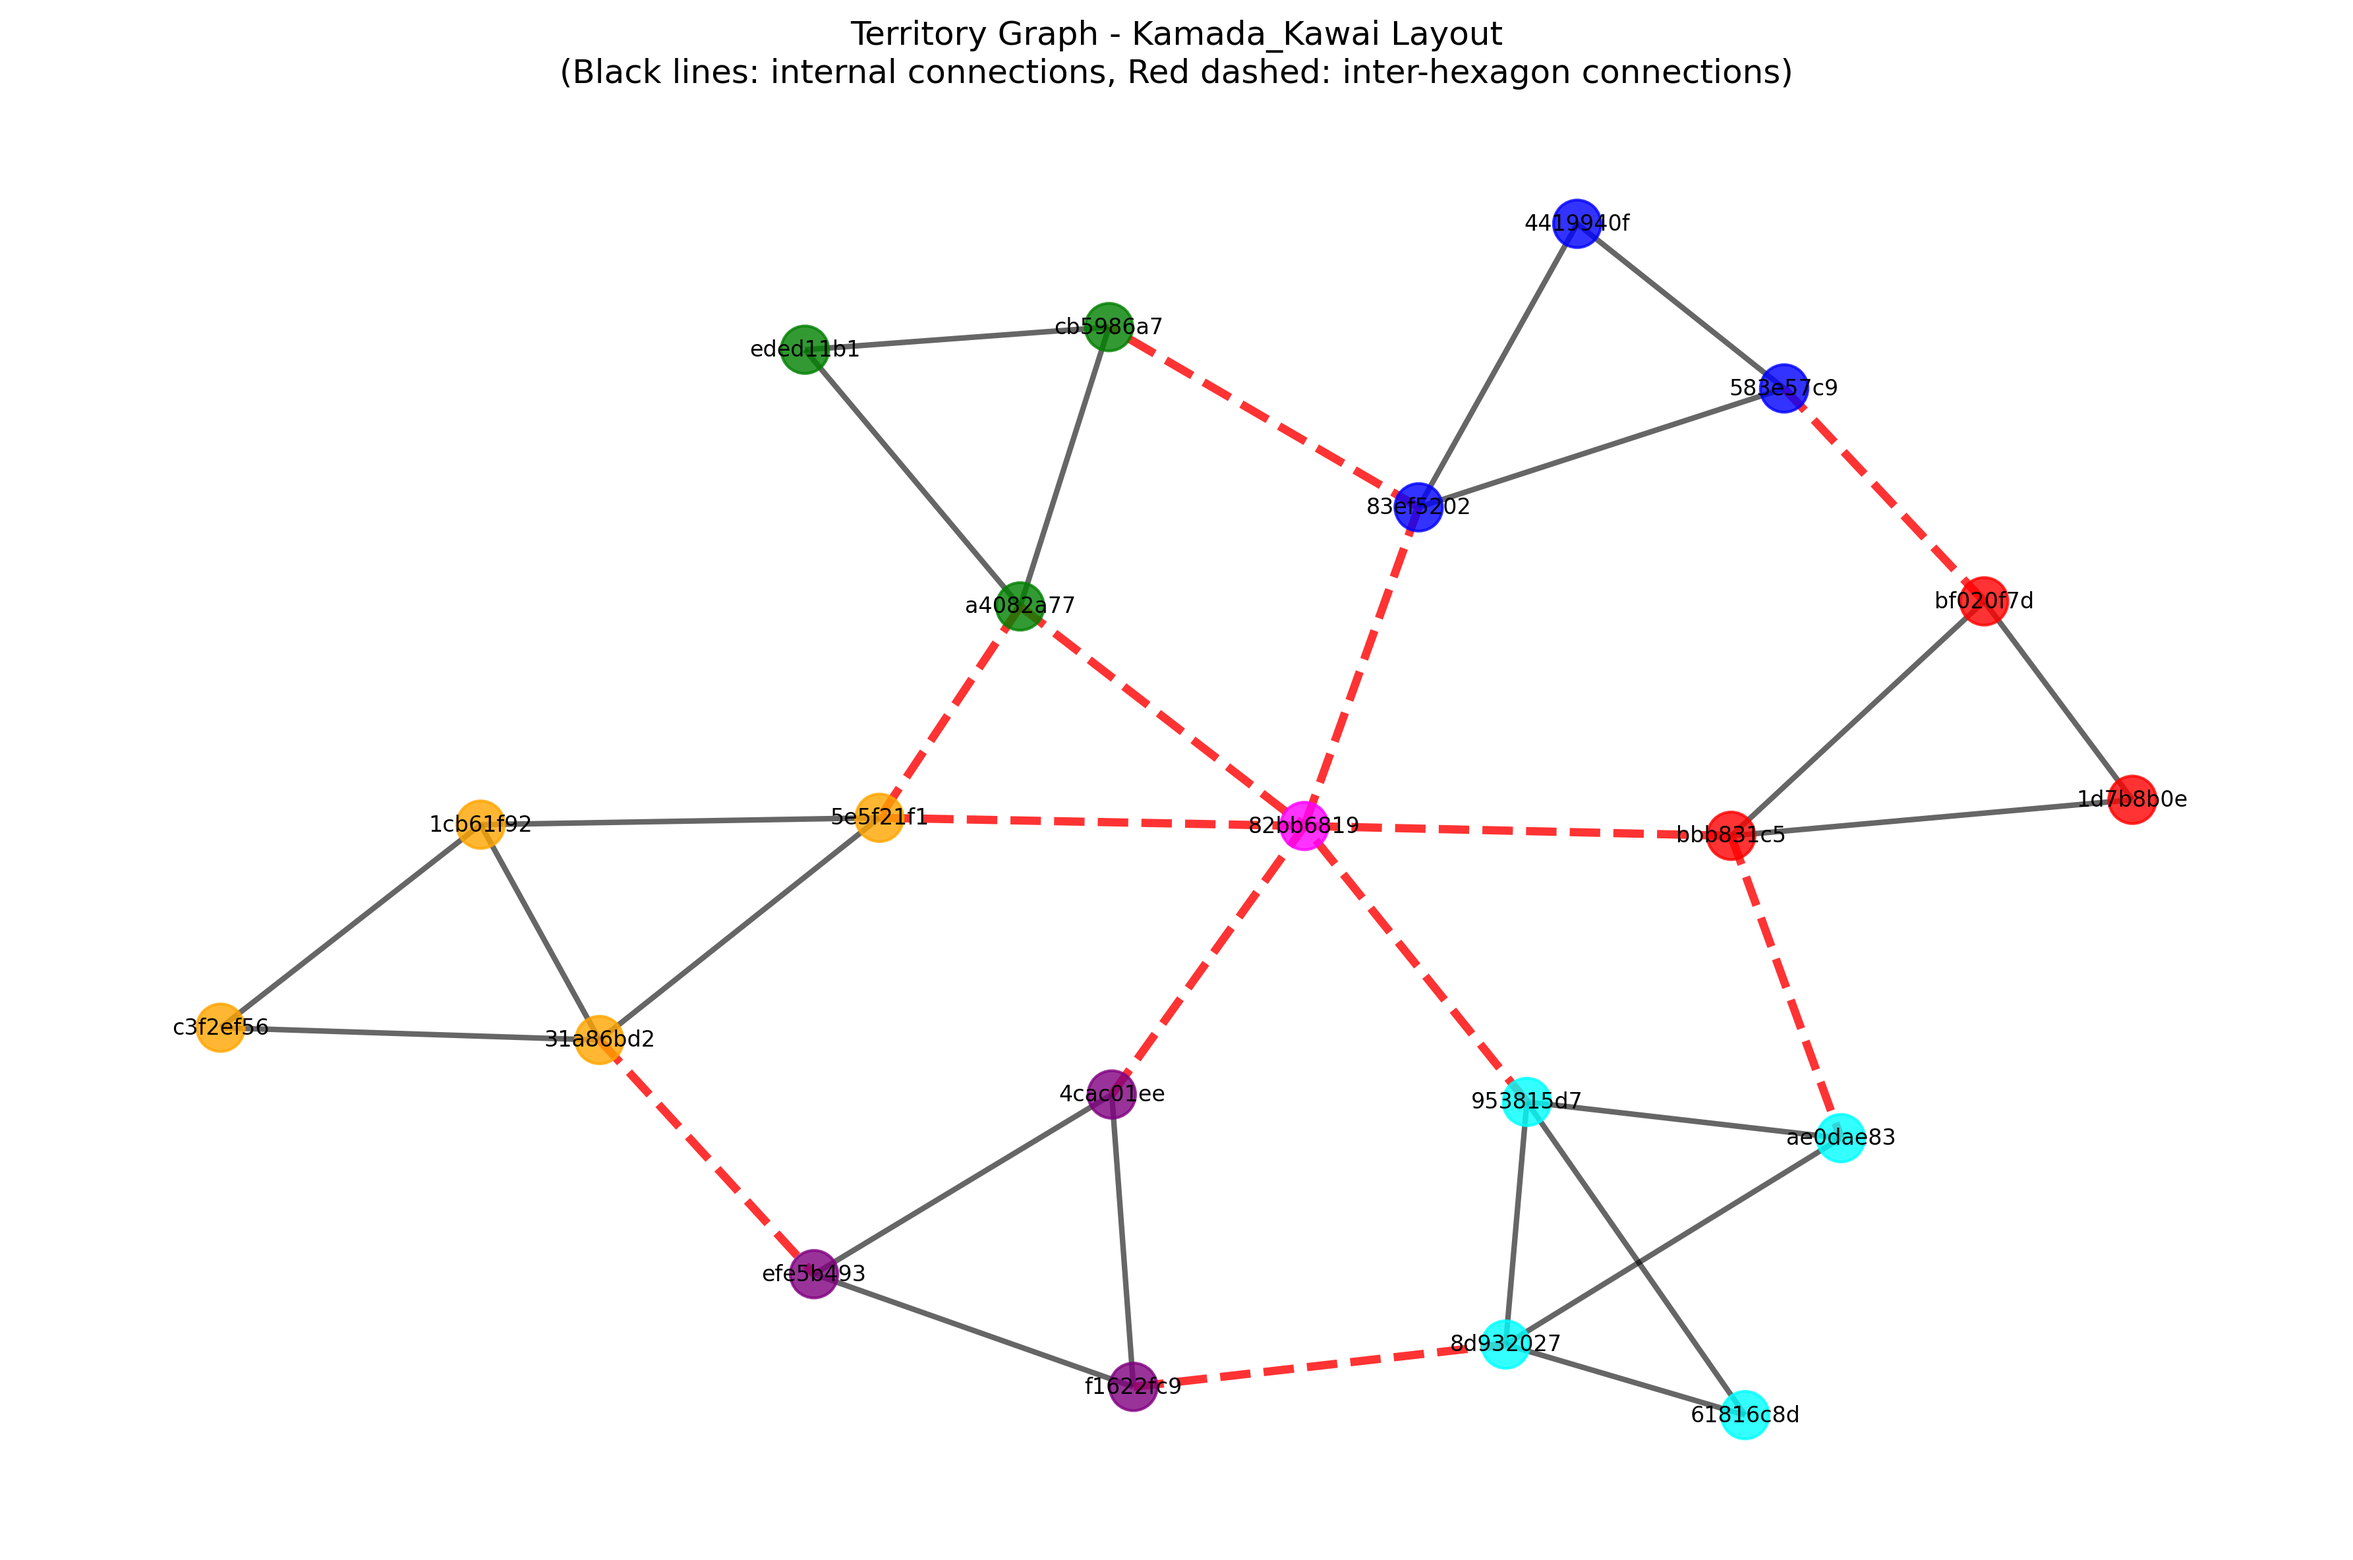
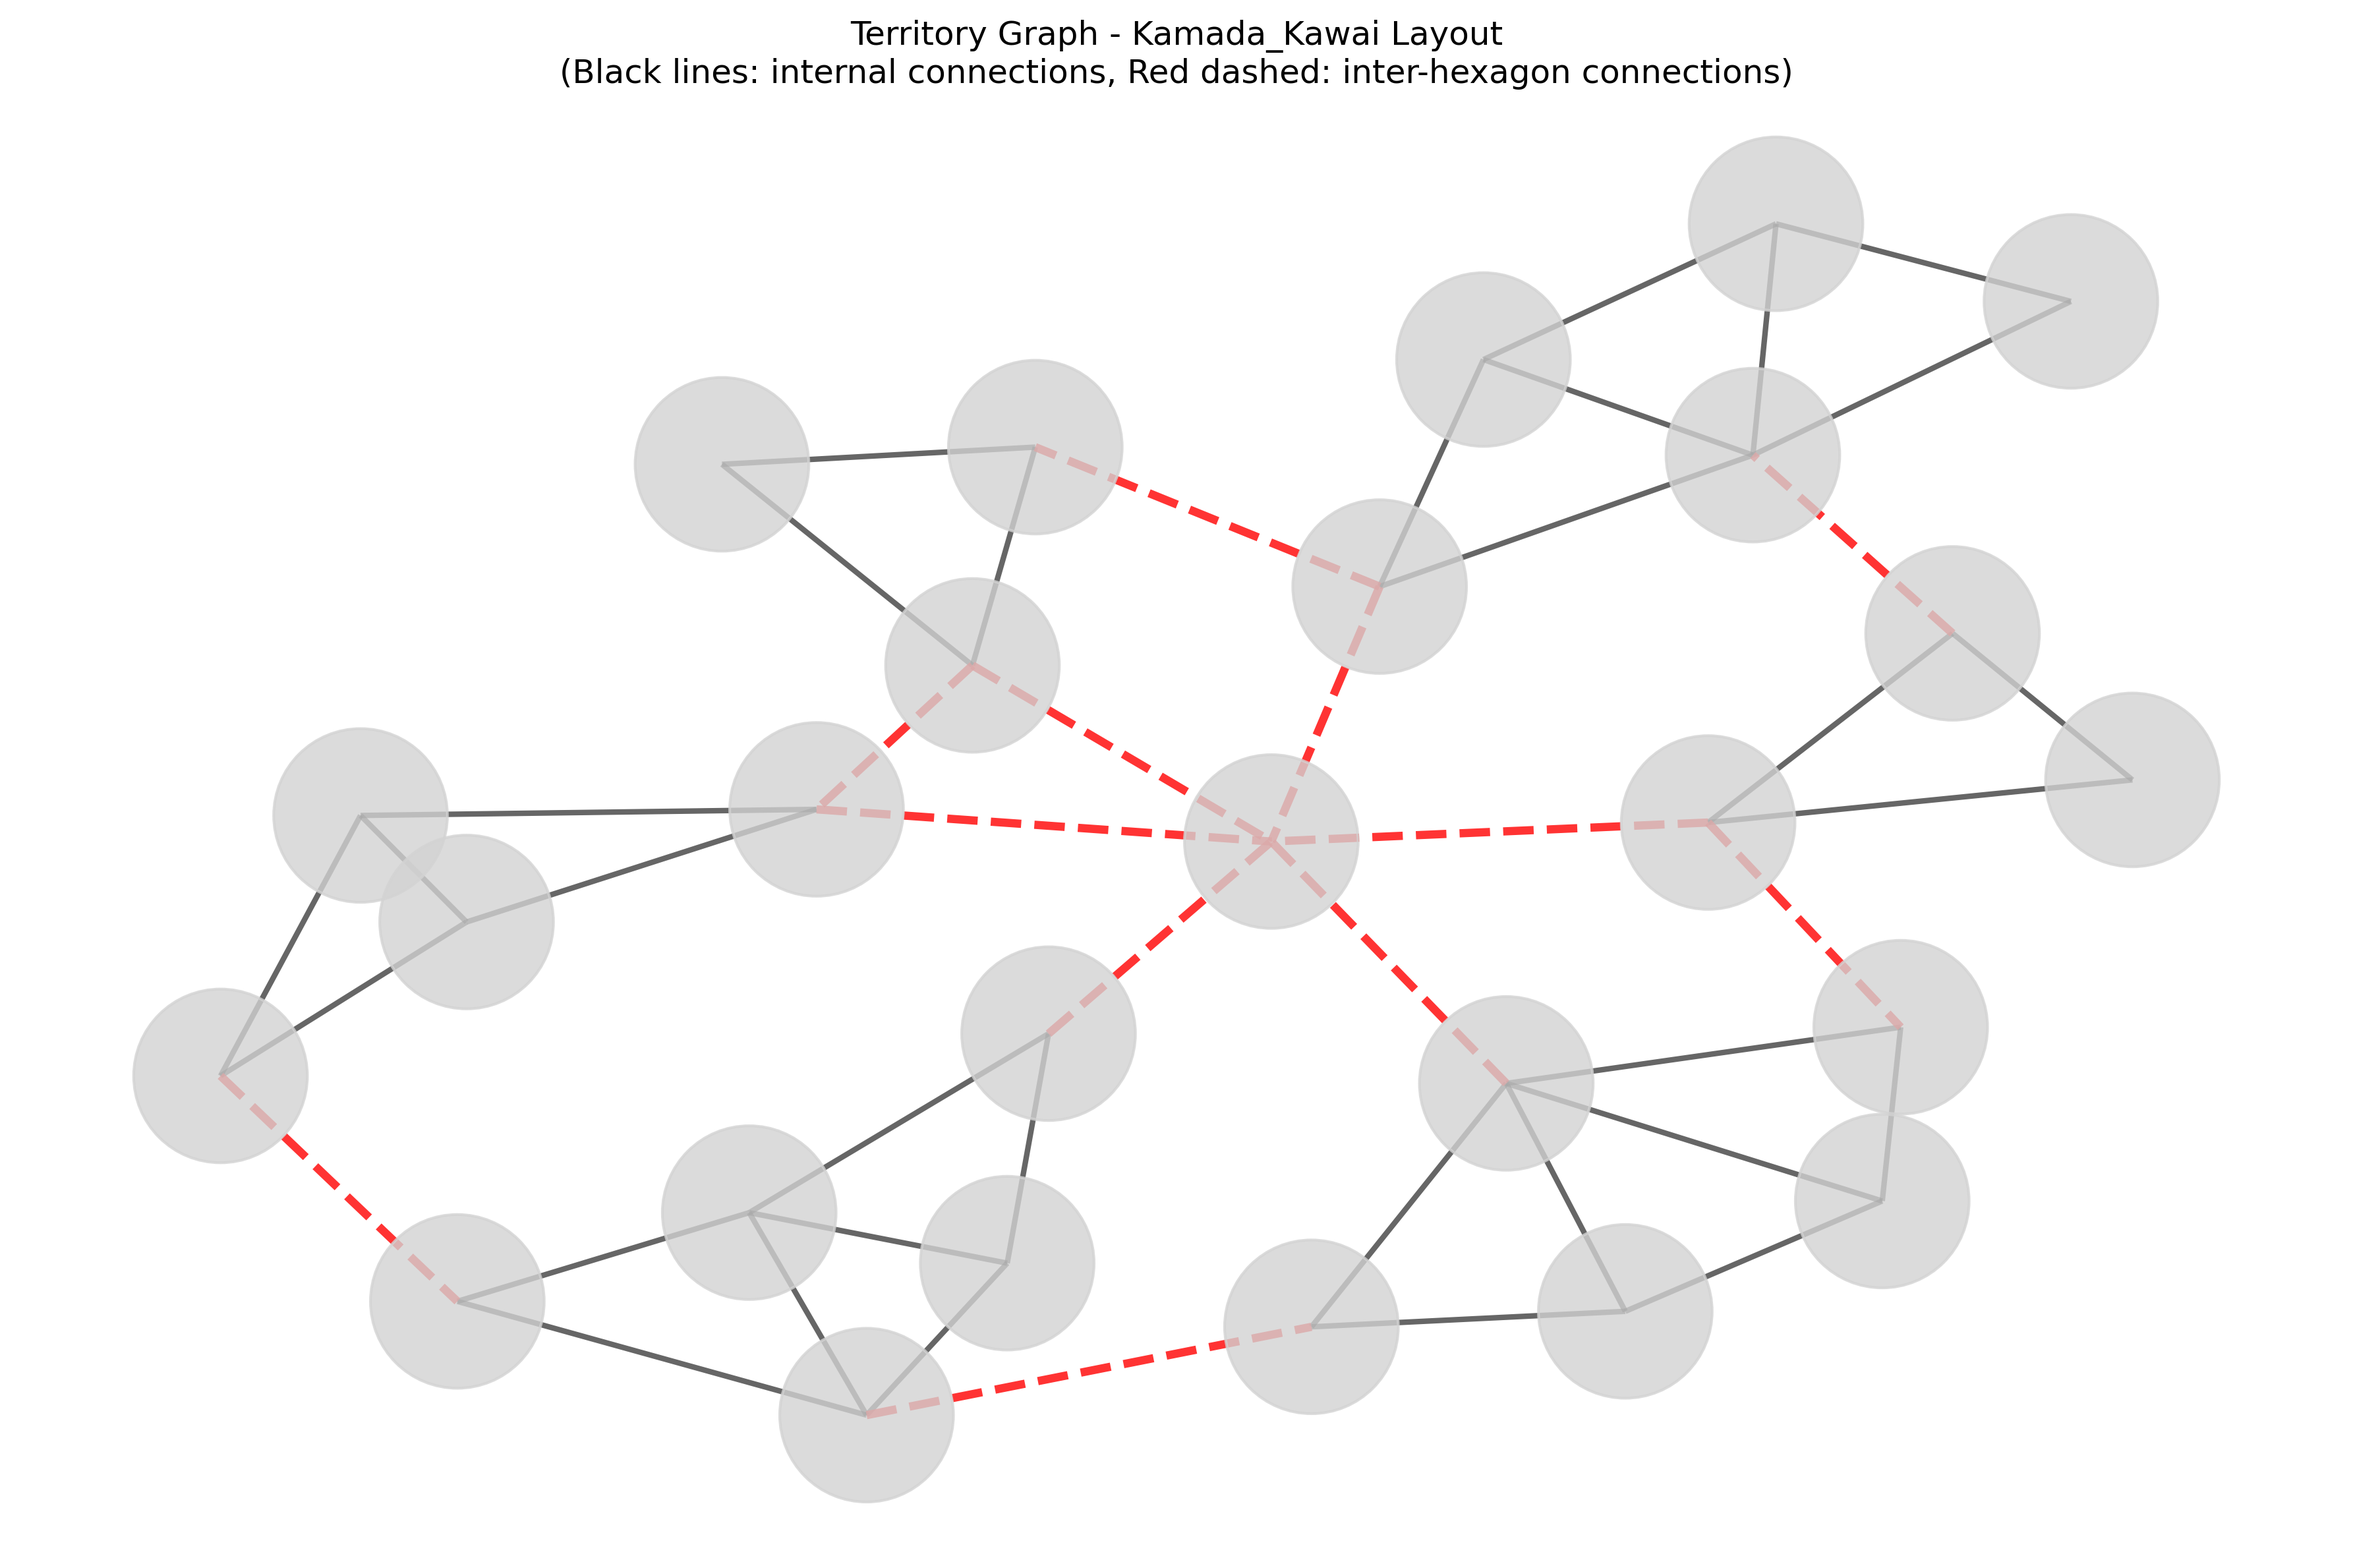
latest, with argparse

diff --git a/hex.py b/hex.py
@@ -5,6 +5,7 @@ from uuid import UUID, uuid4
 import random
 import networkx as nx
 import matplotlib.pyplot as plt
+import argparse
 
 class HexSide(IntEnum):
     """Enumeration for hexagon sides, numbered 0-5"""
@@ -97,7 +98,7 @@ class HexagonGrid(BaseModel):
                 return hex
         return None
     
-    def extract_territory_graph(self, save_image: bool = True) -> nx.Graph:
+    def extract_territory_graph(self, save_image: bool = True, use_colors: bool = False, show_ids: bool = False) -> nx.Graph:
         """
         Extract the full territory graph from the hexagon grid using Kamada-Kawai layout.
         """
@@ -139,11 +140,11 @@ class HexagonGrid(BaseModel):
         
         # Step 4: Visualize with kamada-kawai layout
         if save_image:
-            self._visualize_territory_graph(graph)
+            self._visualize_territory_graph(graph, use_colors, show_ids)
         
         return graph
     
-    def _visualize_territory_graph(self, graph: nx.Graph):
+    def _visualize_territory_graph(self, graph: nx.Graph, use_colors: bool = False, show_ids: bool = False):
         """Create a visual representation using kamada-kawai layout for even distribution"""
         plt.figure(figsize=(12, 8))
         
@@ -156,30 +157,34 @@ class HexagonGrid(BaseModel):
             pos = nx.spring_layout(graph, k=2, iterations=100)
             layout_used = "spring"
         
-        # Draw nodes with different colors for different hexagons
-        hexagon_colors = {}
-        color_map = ['red', 'blue', 'green', 'orange', 'purple', 'cyan', 'magenta', 'yellow']
-        
-        for i, hexagon in enumerate(self.hexagons):
-            hexagon_colors[str(hexagon.hex_id)] = color_map[i % len(color_map)]
-        
-        node_colors = []
-        for node in graph.nodes():
-            hex_id = graph.nodes[node]['hexagon_id']
-            node_colors.append(hexagon_colors[hex_id])
+        # Draw nodes with different colors for different hexagons or light grey
+        if use_colors:
+            hexagon_colors = {}
+            color_map = ['red', 'blue', 'green', 'orange', 'purple', 'cyan', 'magenta', 'yellow']
+            
+            for i, hexagon in enumerate(self.hexagons):
+                hexagon_colors[str(hexagon.hex_id)] = color_map[i % len(color_map)]
+            
+            node_colors = []
+            for node in graph.nodes():
+                hex_id = graph.nodes[node]['hexagon_id']
+                node_colors.append(hexagon_colors[hex_id])
+        else:
+            node_colors = ['lightgrey'] * len(graph.nodes())
         
         # Draw internal edges (solid lines)
         internal_edges = [(u, v) for u, v, d in graph.edges(data=True) if d.get('connection_type') == 'internal']
         inter_edges = [(u, v) for u, v, d in graph.edges(data=True) if d.get('connection_type') == 'inter_hexagon']
         
         # Draw the graph
-        nx.draw_networkx_nodes(graph, pos, node_color=node_colors, node_size=300, alpha=0.8)
+        nx.draw_networkx_nodes(graph, pos, node_color=node_colors, node_size=4000, alpha=0.8)
         nx.draw_networkx_edges(graph, pos, edgelist=internal_edges, edge_color='black', width=2, alpha=0.6)
         nx.draw_networkx_edges(graph, pos, edgelist=inter_edges, edge_color='red', width=3, alpha=0.8, style='dashed')
         
-        # Add labels with short node IDs
-        labels = {node: node[:8] for node in graph.nodes()}
-        nx.draw_networkx_labels(graph, pos, labels, font_size=8)
+        # Add labels with short node IDs if requested
+        if show_ids:
+            labels = {node: node[:8] for node in graph.nodes()}
+            nx.draw_networkx_labels(graph, pos, labels, font_size=8)
         
         plt.title(f"Territory Graph - {layout_used.title()} Layout\n(Black lines: internal connections, Red dashed: inter-hexagon connections)")
         plt.axis('off')
@@ -282,14 +287,61 @@ class HexagonArchetypes:
     @staticmethod 
     def create_random() -> Hexagon:
         """Create a random archetype hexagon"""
-        if random.choice([True, False]):
+        choice = random.choice(['triple', 'diamond', 'five'])
+        if choice == 'triple':
             return HexagonArchetypes.create_triple()
-        else:
+        elif choice == 'diamond':
             return HexagonArchetypes.create_diamond()
+        else:
+            return HexagonArchetypes.create_five()
+
+    @staticmethod
+    def create_five() -> Hexagon:
+        """
+        Creates a five hexagon with five territories:
+        - Territory 1: touches side 0
+        - Territory 2: touches side 1
+        - Territory 3: touches side 2
+        - Territory 4: touches sides 3 and 4
+        - Territory 5: touches side 5
+        
+        Internal connections:
+        T1-T2, T1-T5, T1-T3, T2-T3, T4-T3, T4-T5, T3-T5
+        """
+        # Create five unique territories
+        territory_1 = Territory(touching_sides={HexSide.SIDE_0})
+        territory_2 = Territory(touching_sides={HexSide.SIDE_1})
+        territory_3 = Territory(touching_sides={HexSide.SIDE_2})
+        territory_4 = Territory(touching_sides={HexSide.SIDE_3, HexSide.SIDE_4})
+        territory_5 = Territory(touching_sides={HexSide.SIDE_5})
+        
+        # Create internal edges based on specification
+        internal_edges = [
+            (territory_1, territory_2),
+            (territory_1, territory_5),
+            (territory_1, territory_3),
+            (territory_2, territory_3),
+            (territory_4, territory_3),
+            (territory_4, territory_5),
+            (territory_3, territory_5)
+        ]
+        
+        # Create and return the hexagon
+        return Hexagon(
+            territories=[territory_1, territory_2, territory_3, territory_4, territory_5],
+            internal_edges=internal_edges
+        )
 
 
 def main():
     """Create a hexagon ring of 6 hexagons (like a Catan board section)"""
+    # Parse command line arguments
+    parser = argparse.ArgumentParser(description='Generate hexagon territory graph')
+    parser.add_argument('--color', action='store_true', 
+                        help='Use different colors for nodes from different hexagons (default: light grey)')
+    parser.add_argument('--showids', action='store_true',
+                        help='Show territory IDs on nodes (default: no IDs)')
+    args = parser.parse_args()
     grid = HexagonGrid()
     
     # Create first hexagon
@@ -395,7 +447,7 @@ def main():
     
     # Extract and visualize the territory graph
     print("\nExtracting territory graph...")
-    territory_graph = grid.extract_territory_graph()
+    territory_graph = grid.extract_territory_graph(save_image=True, use_colors=args.color, show_ids=args.showids)
     
     return grid
 
